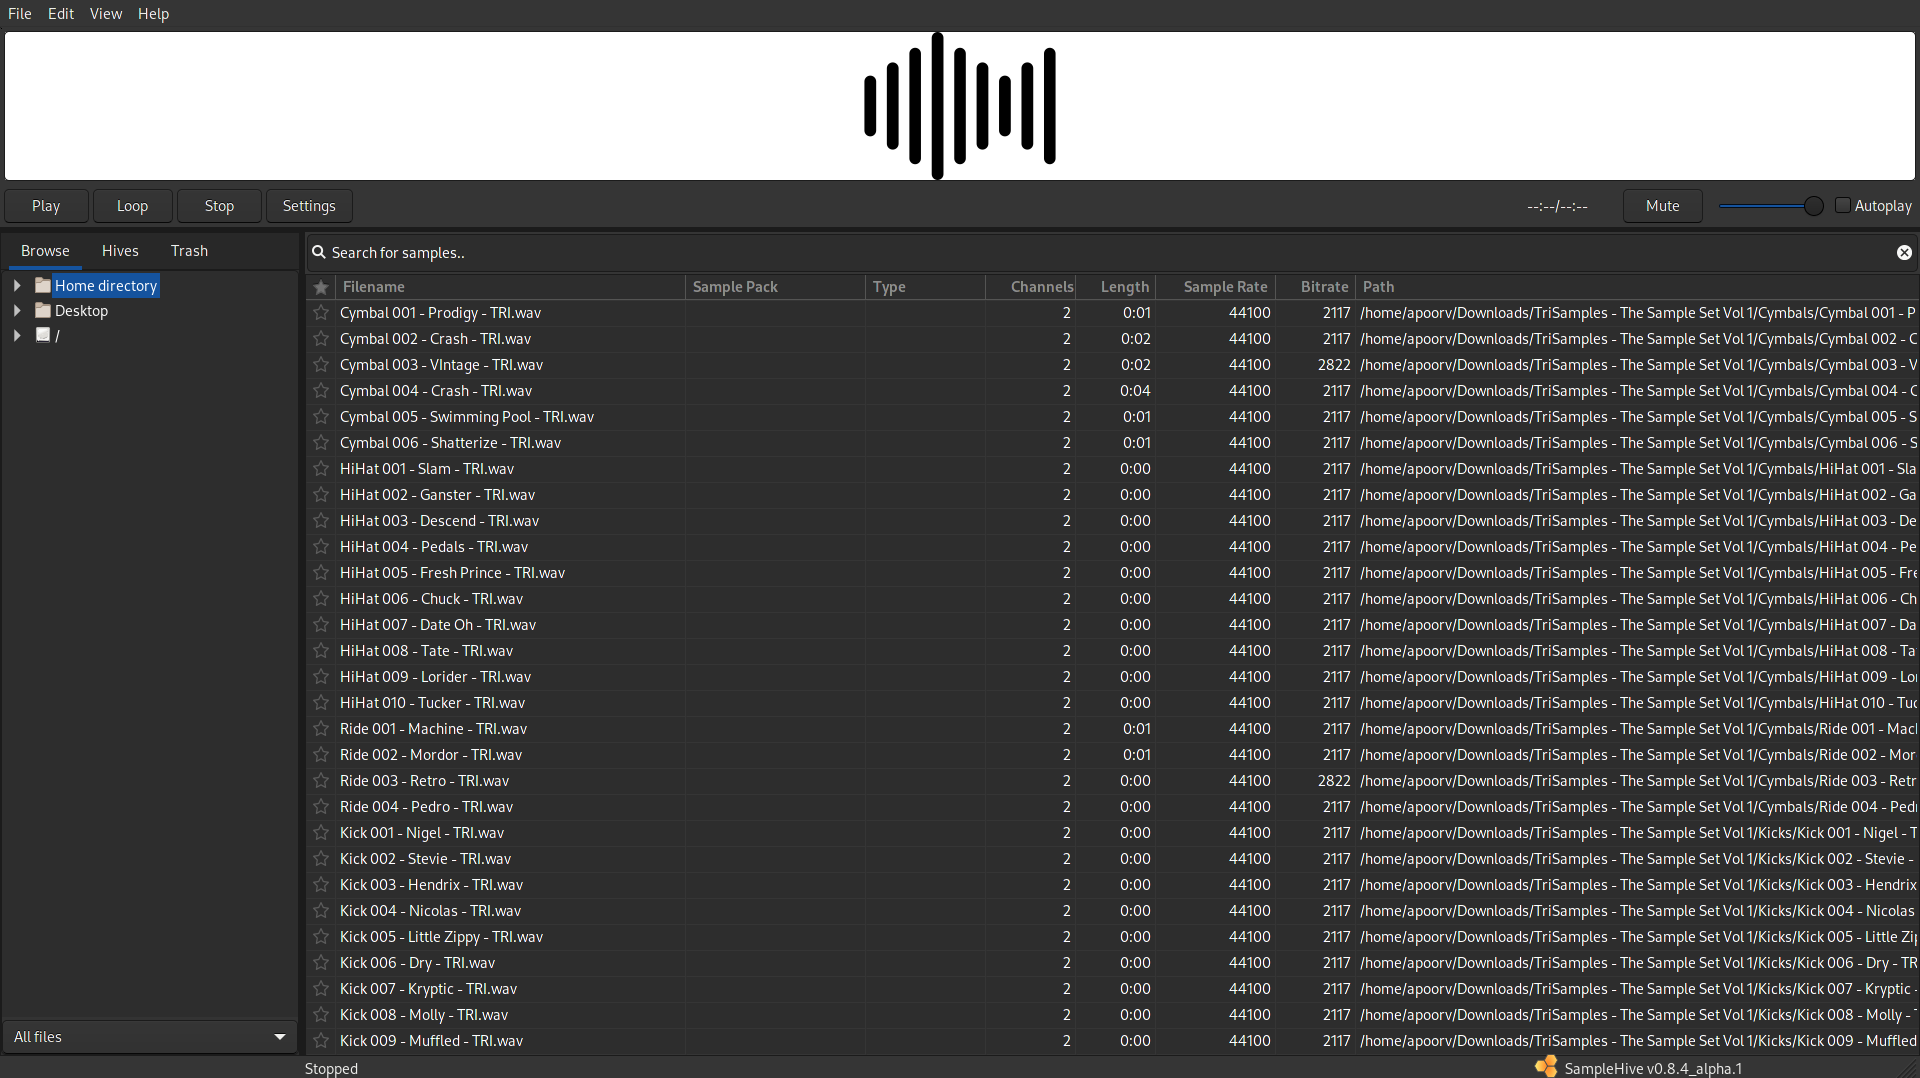
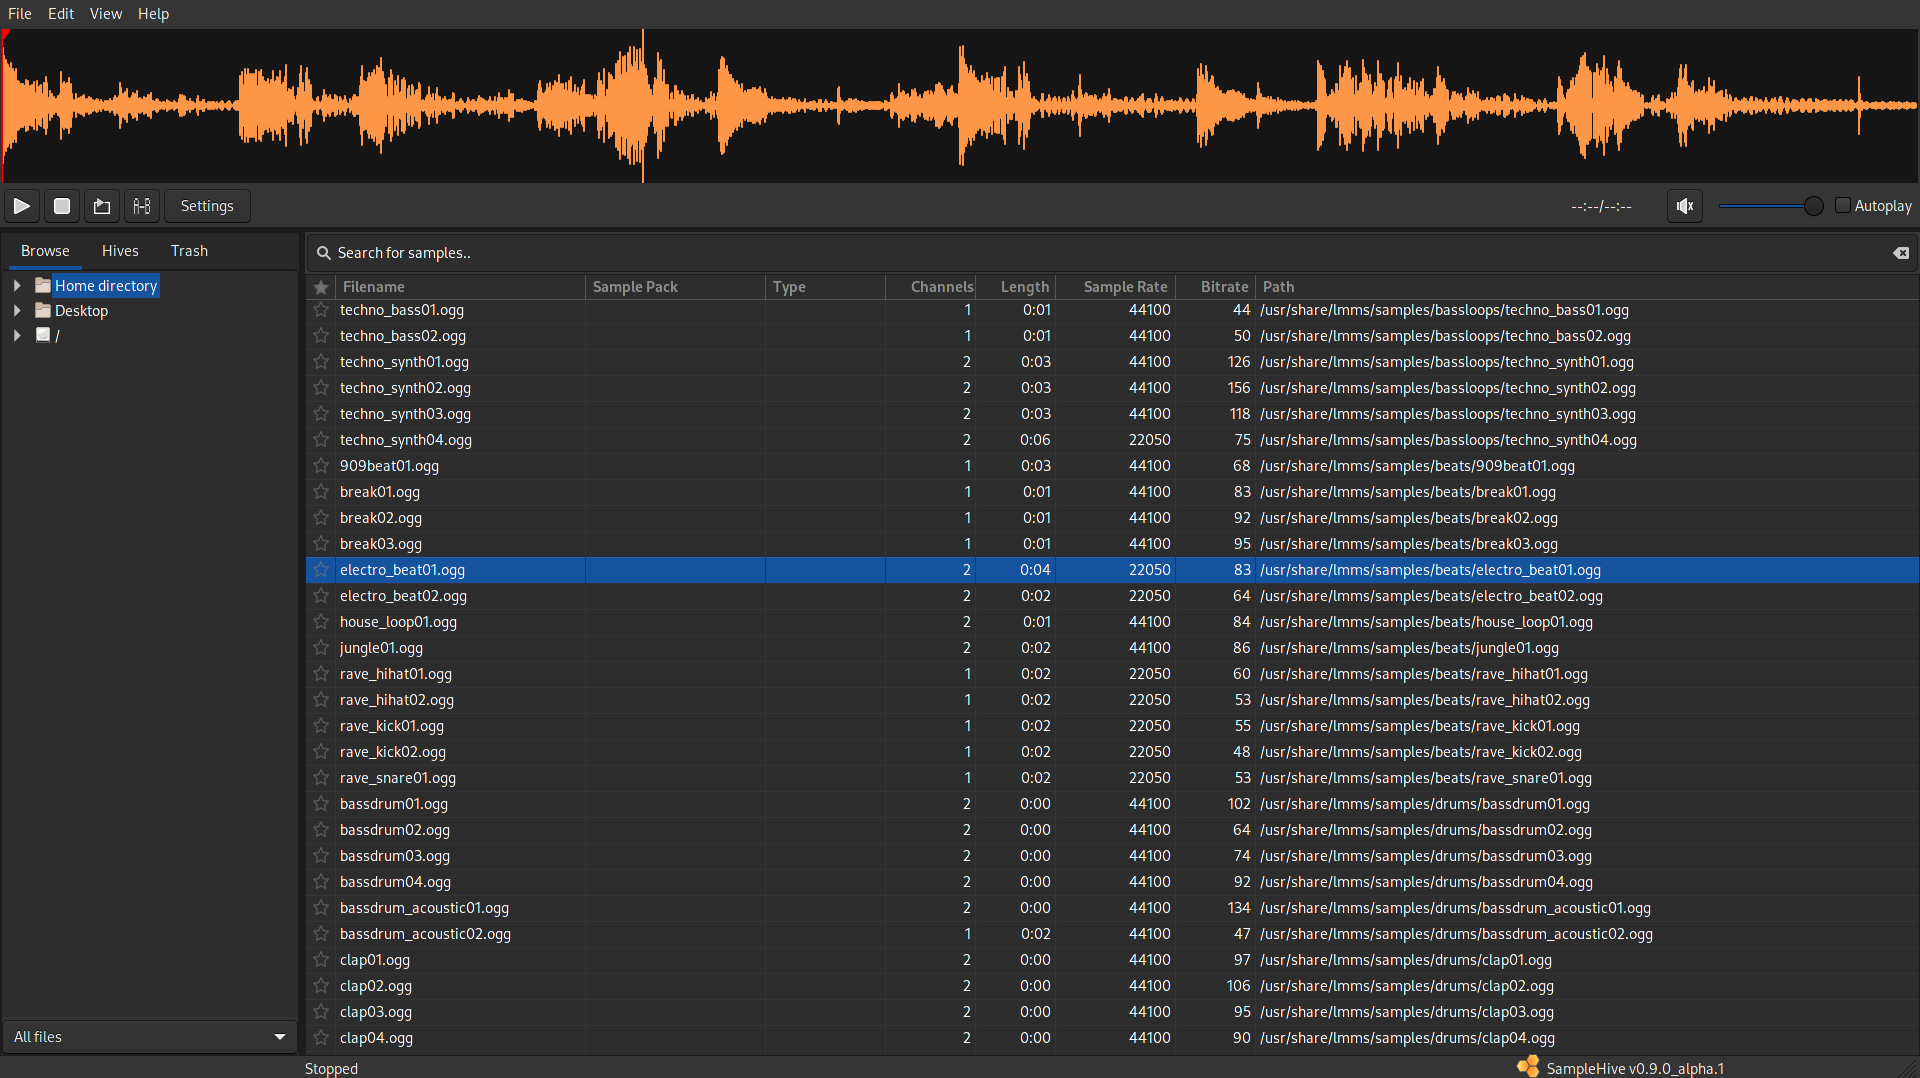
Version bump to v0.9.0_alpha.1, general cleanup and replace screenshots with new, showing off waveform.

diff --git a/src/MainFrame.cpp b/src/MainFrame.cpp
@@ -50,14 +50,12 @@
 #include <wx/msgdlg.h>
 #include <wx/object.h>
 #include <wx/progdlg.h>
-// #include <wx/stdpaths.h>
 #include <wx/stringimpl.h>
 #include <wx/textdlg.h>
 #include <wx/valtext.h>
 #include <wx/variant.h>
 #include <wx/vector.h>
 #include <wx/utils.h>
-// #include <wx/unix/stdpaths.h>
 
 #include "MainFrame.hpp"
 #include "ControlID_Enums.hpp"
@@ -426,7 +424,6 @@ MainFrame::MainFrame()
     Bind(wxEVT_TOGGLEBUTTON, &MainFrame::OnClickMute, this, BC_Mute);
     Bind(wxEVT_MEDIA_FINISHED, &MainFrame::OnMediaFinished, this, BC_MediaCtrl);
     Bind(wxEVT_BUTTON, &MainFrame::OnClickSettings, this, BC_Settings);
-    // Bind(wxEVT_TOGGLEBUTTON, &MainFrame::OnClickLoopABButton, this, BC_LoopABButton);
     Bind(wxEVT_CHECKBOX, &MainFrame::OnCheckAutoplay, this, BC_Autoplay);
     Bind(wxEVT_SCROLL_THUMBTRACK, &MainFrame::OnSlideVolume, this, BC_Volume);
     Bind(wxEVT_SCROLL_THUMBRELEASE, &MainFrame::OnReleaseVolumeSlider, this, BC_Volume);
@@ -2645,7 +2642,7 @@ void MainFrame::LoadConfigFile()
     this->CenterOnScreen(wxBOTH);
     this->SetIcon(wxIcon(ICON_HIVE_256px, wxICON_DEFAULT_TYPE, -1, -1));
     this->SetTitle("SampleHive");
-    this->SetStatusText("SampleHive v0.8.4_alpha.1", 3);
+    this->SetStatusText("SampleHive v0.9.0_alpha.1", 3);
     this->SetStatusText(_("Stopped"), 1);
 }
 
@@ -2890,21 +2887,21 @@ void MainFrame::OnSelectAbout(wxCommandEvent& event)
     aboutInfo.SetName("SampleHive");
     aboutInfo.SetIcon(wxIcon(ICON_HIVE_64px));
     aboutInfo.AddArtist("Apoorv");
-    aboutInfo.SetVersion("v0.8.4_alpha.1", _("Version 0.8.4_alpha.1"));
+    aboutInfo.SetVersion("v0.9.0_alpha.1", _("Version 0.9.0_alpha.1"));
     aboutInfo.SetDescription(_("A simple, modern audio sample browser/manager for GNU/Linux."));
     aboutInfo.SetCopyright("(C) 2020-2021");
     aboutInfo.SetWebSite("http://samplehive.gitlab.io");
     aboutInfo.AddDeveloper("Apoorv");
     aboutInfo.SetLicence(wxString::FromAscii(
-                             "SampleHive v0.8.4_alpha.1\n"
+                             "SampleHive v0.9.0_alpha.1\n"
                              "Copyright (C) 2021  Apoorv Singh\n"
                              "\n"
-                             "This program is free software: you can redistribute it and/or modify\n"
+                             "SampleHive is free software: you can redistribute it and/or modify\n"
                              "it under the terms of the GNU General Public License as published by\n"
                              "the Free Software Foundation, either version 3 of the License, or\n"
                              "(at your option) any later version.\n"
                              "\n"
-                             "This program is distributed in the hope that it will be useful,\n"
+                             "SampleHive is distributed in the hope that it will be useful,\n"
                              "but WITHOUT ANY WARRANTY; without even the implied warranty of\n"
                              "MERCHANTABILITY or FITNESS FOR A PARTICULAR PURPOSE.  See the\n"
                              "GNU General Public License for more details.\n"
@@ -2933,11 +2930,6 @@ void MainFrame::SetAfterFrameCreate()
 {
     m_TopSplitter->SetSashPosition(200);
     m_BottomSplitter->SetSashPosition(300);
-}
-
-void MainFrame::OnClickLoopABButton(wxCommandEvent& event)
-{
-    wxLogDebug("Loop point button clicked");
 }
 
 void MainFrame::OnRecieveLoopPoints(SampleHive::SH_LoopPointsEvent& event)

diff --git a/src/MainFrame.hpp b/src/MainFrame.hpp
@@ -175,7 +175,11 @@ class MainFrame : public wxFrame
         // FileSystemWatcher
         wxFileSystemWatcher* m_FsWatcher;
 
+        // -------------------------------------------------------------------
         wxLongLong m_LoopA, m_LoopB;
+
+        // -------------------------------------------------------------------
+        wxSystemAppearance m_Theme = wxSystemSettings::GetAppearance();
 
     private:
         // -------------------------------------------------------------------
@@ -185,9 +189,6 @@ class MainFrame : public wxFrame
         bool bStopped = false;
         bool bFiltered = false;
         bool bLoopPointsSet = false;
-
-        // -------------------------------------------------------------------
-        wxSystemAppearance m_Theme = wxSystemSettings::GetAppearance();
 
         // -------------------------------------------------------------------
         const std::string m_ConfigFilepath;
@@ -205,7 +206,6 @@ class MainFrame : public wxFrame
         void OnSlideVolume(wxScrollEvent& event);
         void OnReleaseVolumeSlider(wxScrollEvent& event);
         void OnClickSettings(wxCommandEvent& event);
-        void OnClickLoopABButton(wxCommandEvent& event);
 
         // -------------------------------------------------------------------
         // DirCtrl event handlers
@@ -264,7 +264,8 @@ class MainFrame : public wxFrame
         void OnAutoImportDir(const wxString& pathToDirectory);
 
         // -------------------------------------------------------------------
-        void PlaySample(const std::string& filepath, const std::string& sample, bool seek = false, wxFileOffset where = NULL, wxSeekMode mode = wxFromStart);
+        void PlaySample(const std::string& filepath, const std::string& sample, bool seek = false,
+                        wxFileOffset where = NULL, wxSeekMode mode = wxFromStart);
 
         // Recieve custom events
         // -------------------------------------------------------------------

diff --git a/src/WaveformViewer.cpp b/src/WaveformViewer.cpp
@@ -74,7 +74,6 @@ void WaveformViewer::OnPaint(wxPaintEvent& event)
         wxLogDebug("Updating waveform bitmap..");
 
         m_WaveformBitmap = wxBitmap(wxImage(size.x, size.y), 32);
-        // m_WaveformBitmap.Create(size.x, size.y, 32);
 
         UpdateWaveformBitmap();
 
@@ -82,7 +81,6 @@ void WaveformViewer::OnPaint(wxPaintEvent& event)
     }
 
     dc.DrawBitmap(m_WaveformBitmap, 0, 0, false);
-    // m_WaveformBitmap.SaveFile("waveform.png", wxBITMAP_TYPE_PNG);
 
     RenderPlayhead(dc);
 

diff --git a/src/App.cpp b/src/App.cpp
@@ -79,7 +79,7 @@ bool App::OnCmdLineParsed(wxCmdLineParser& parser)
 
     if (parser.Found("version"))
     {
-        std::cout << "SampleHive v0.8.4_alpha.1" << std::endl;
+        std::cout << "SampleHive v0.9.0_alpha.1" << std::endl;
         return false;
     }
 
